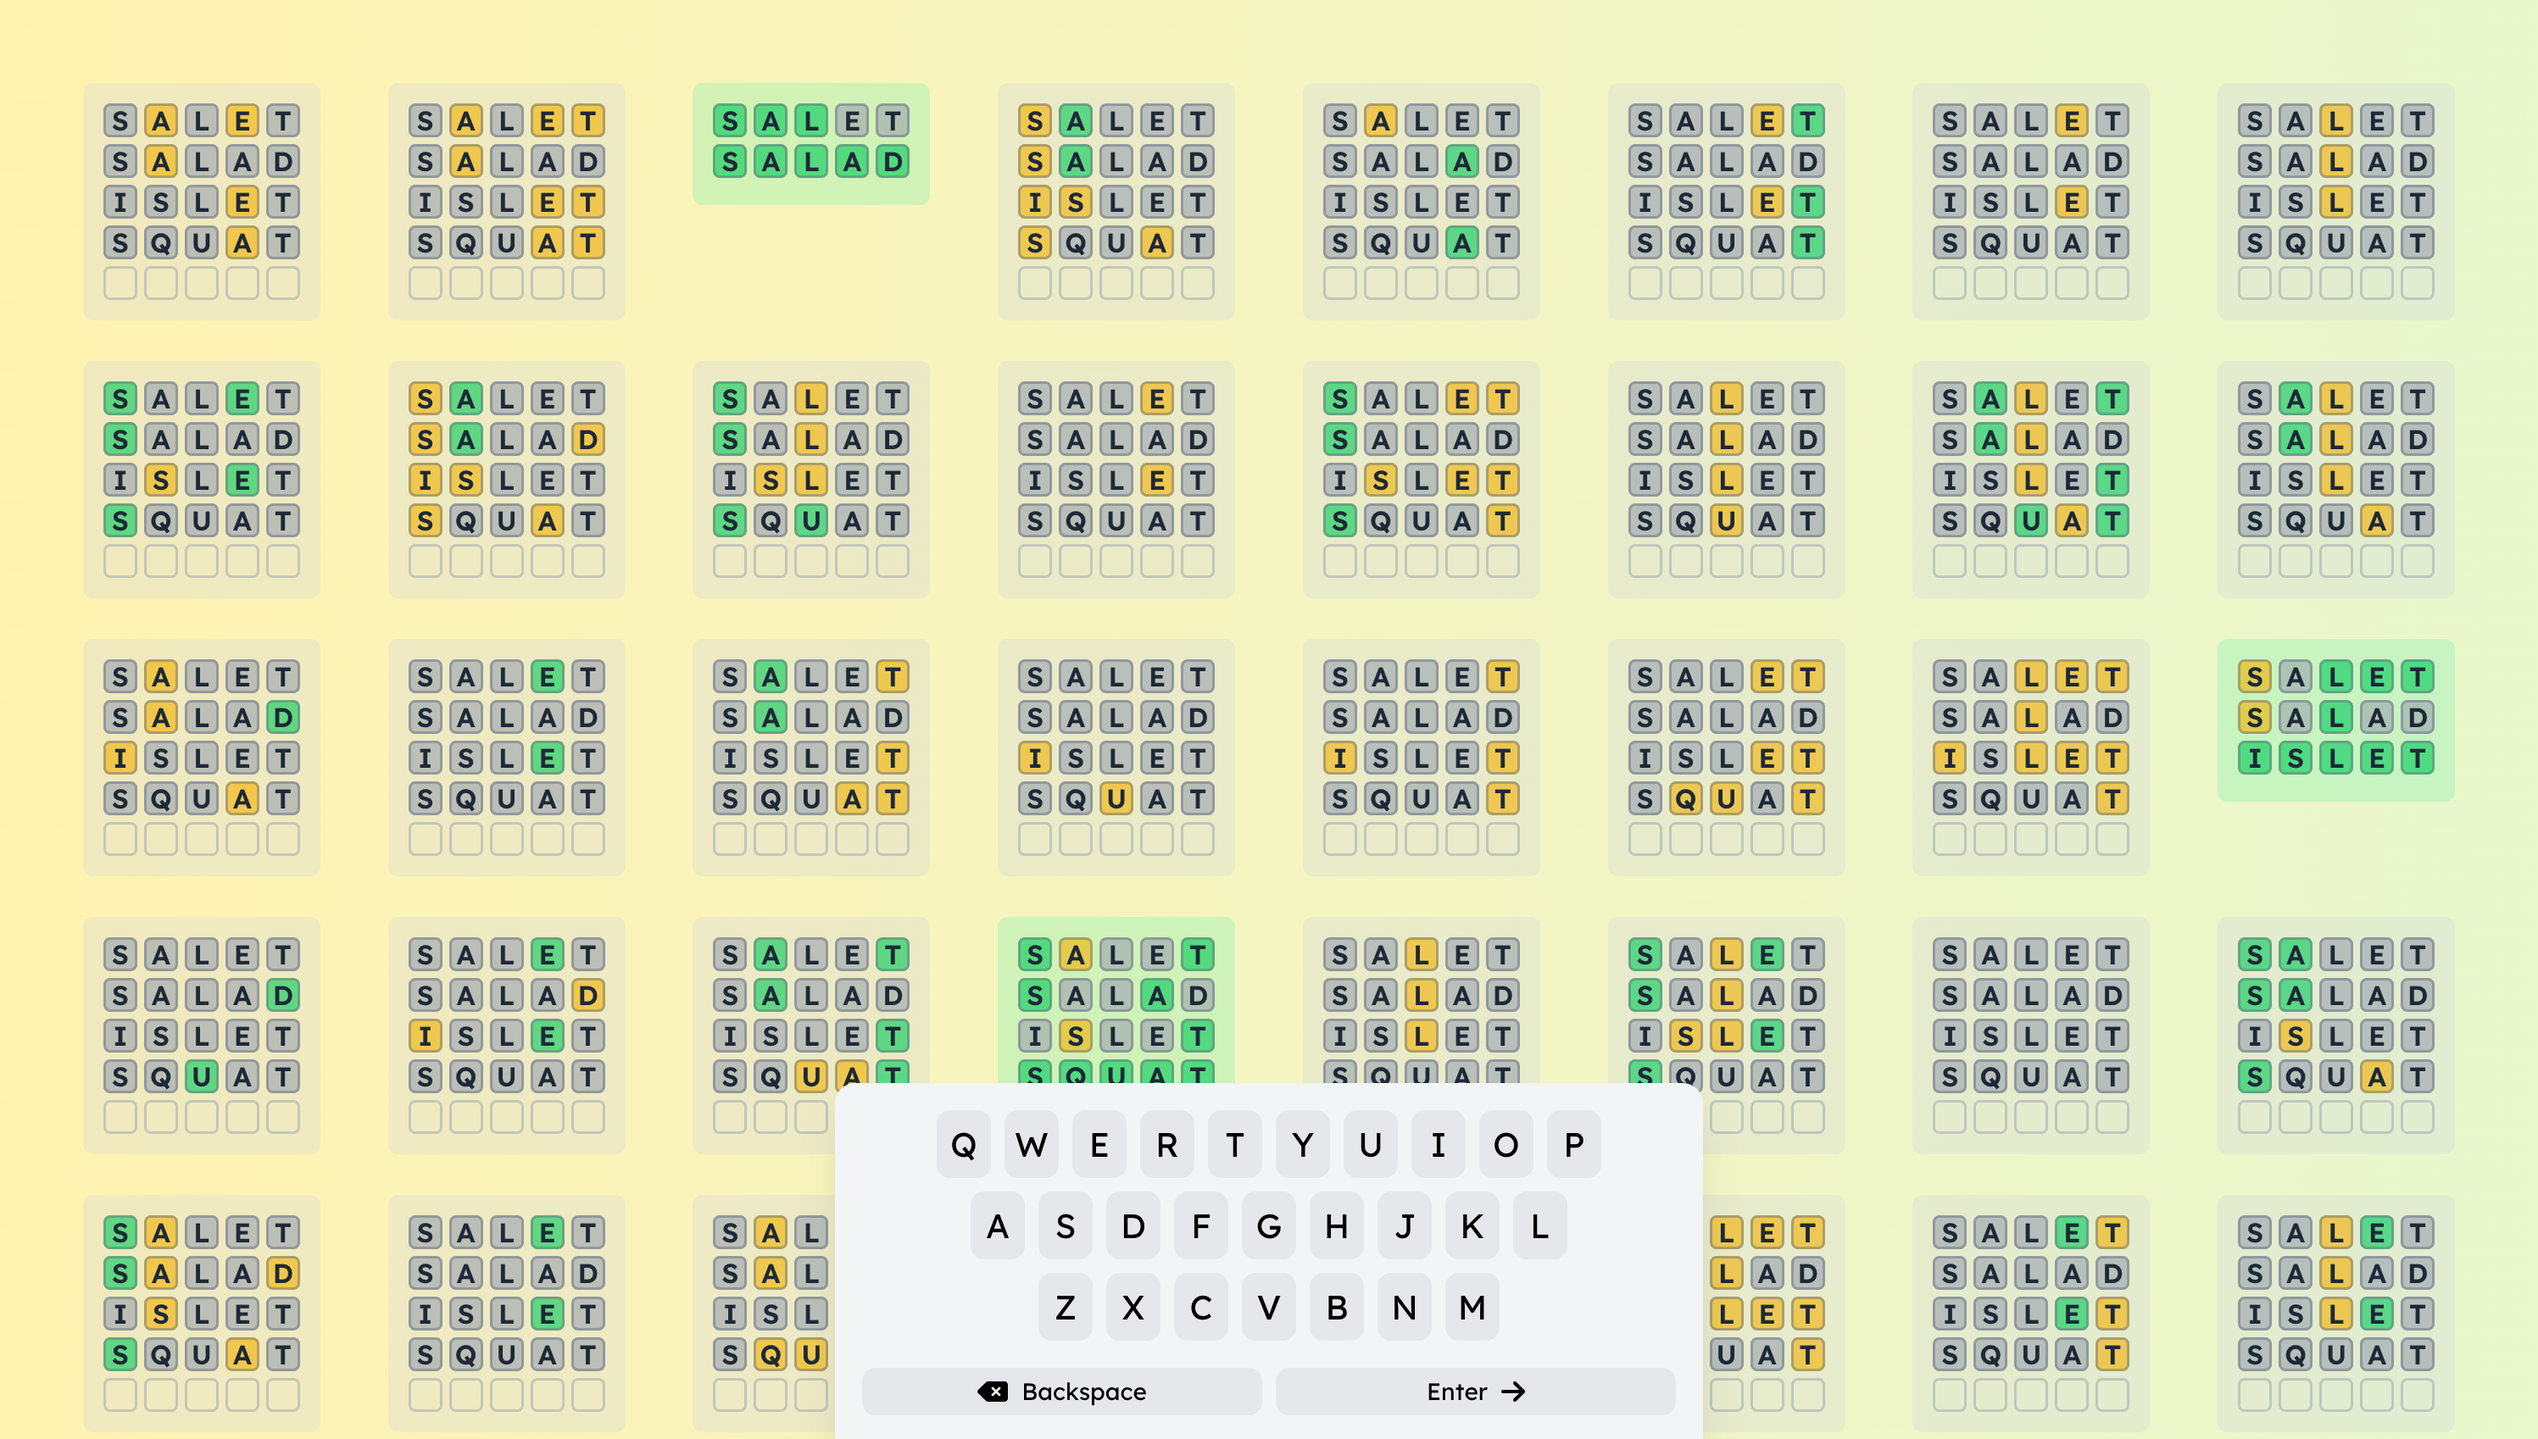
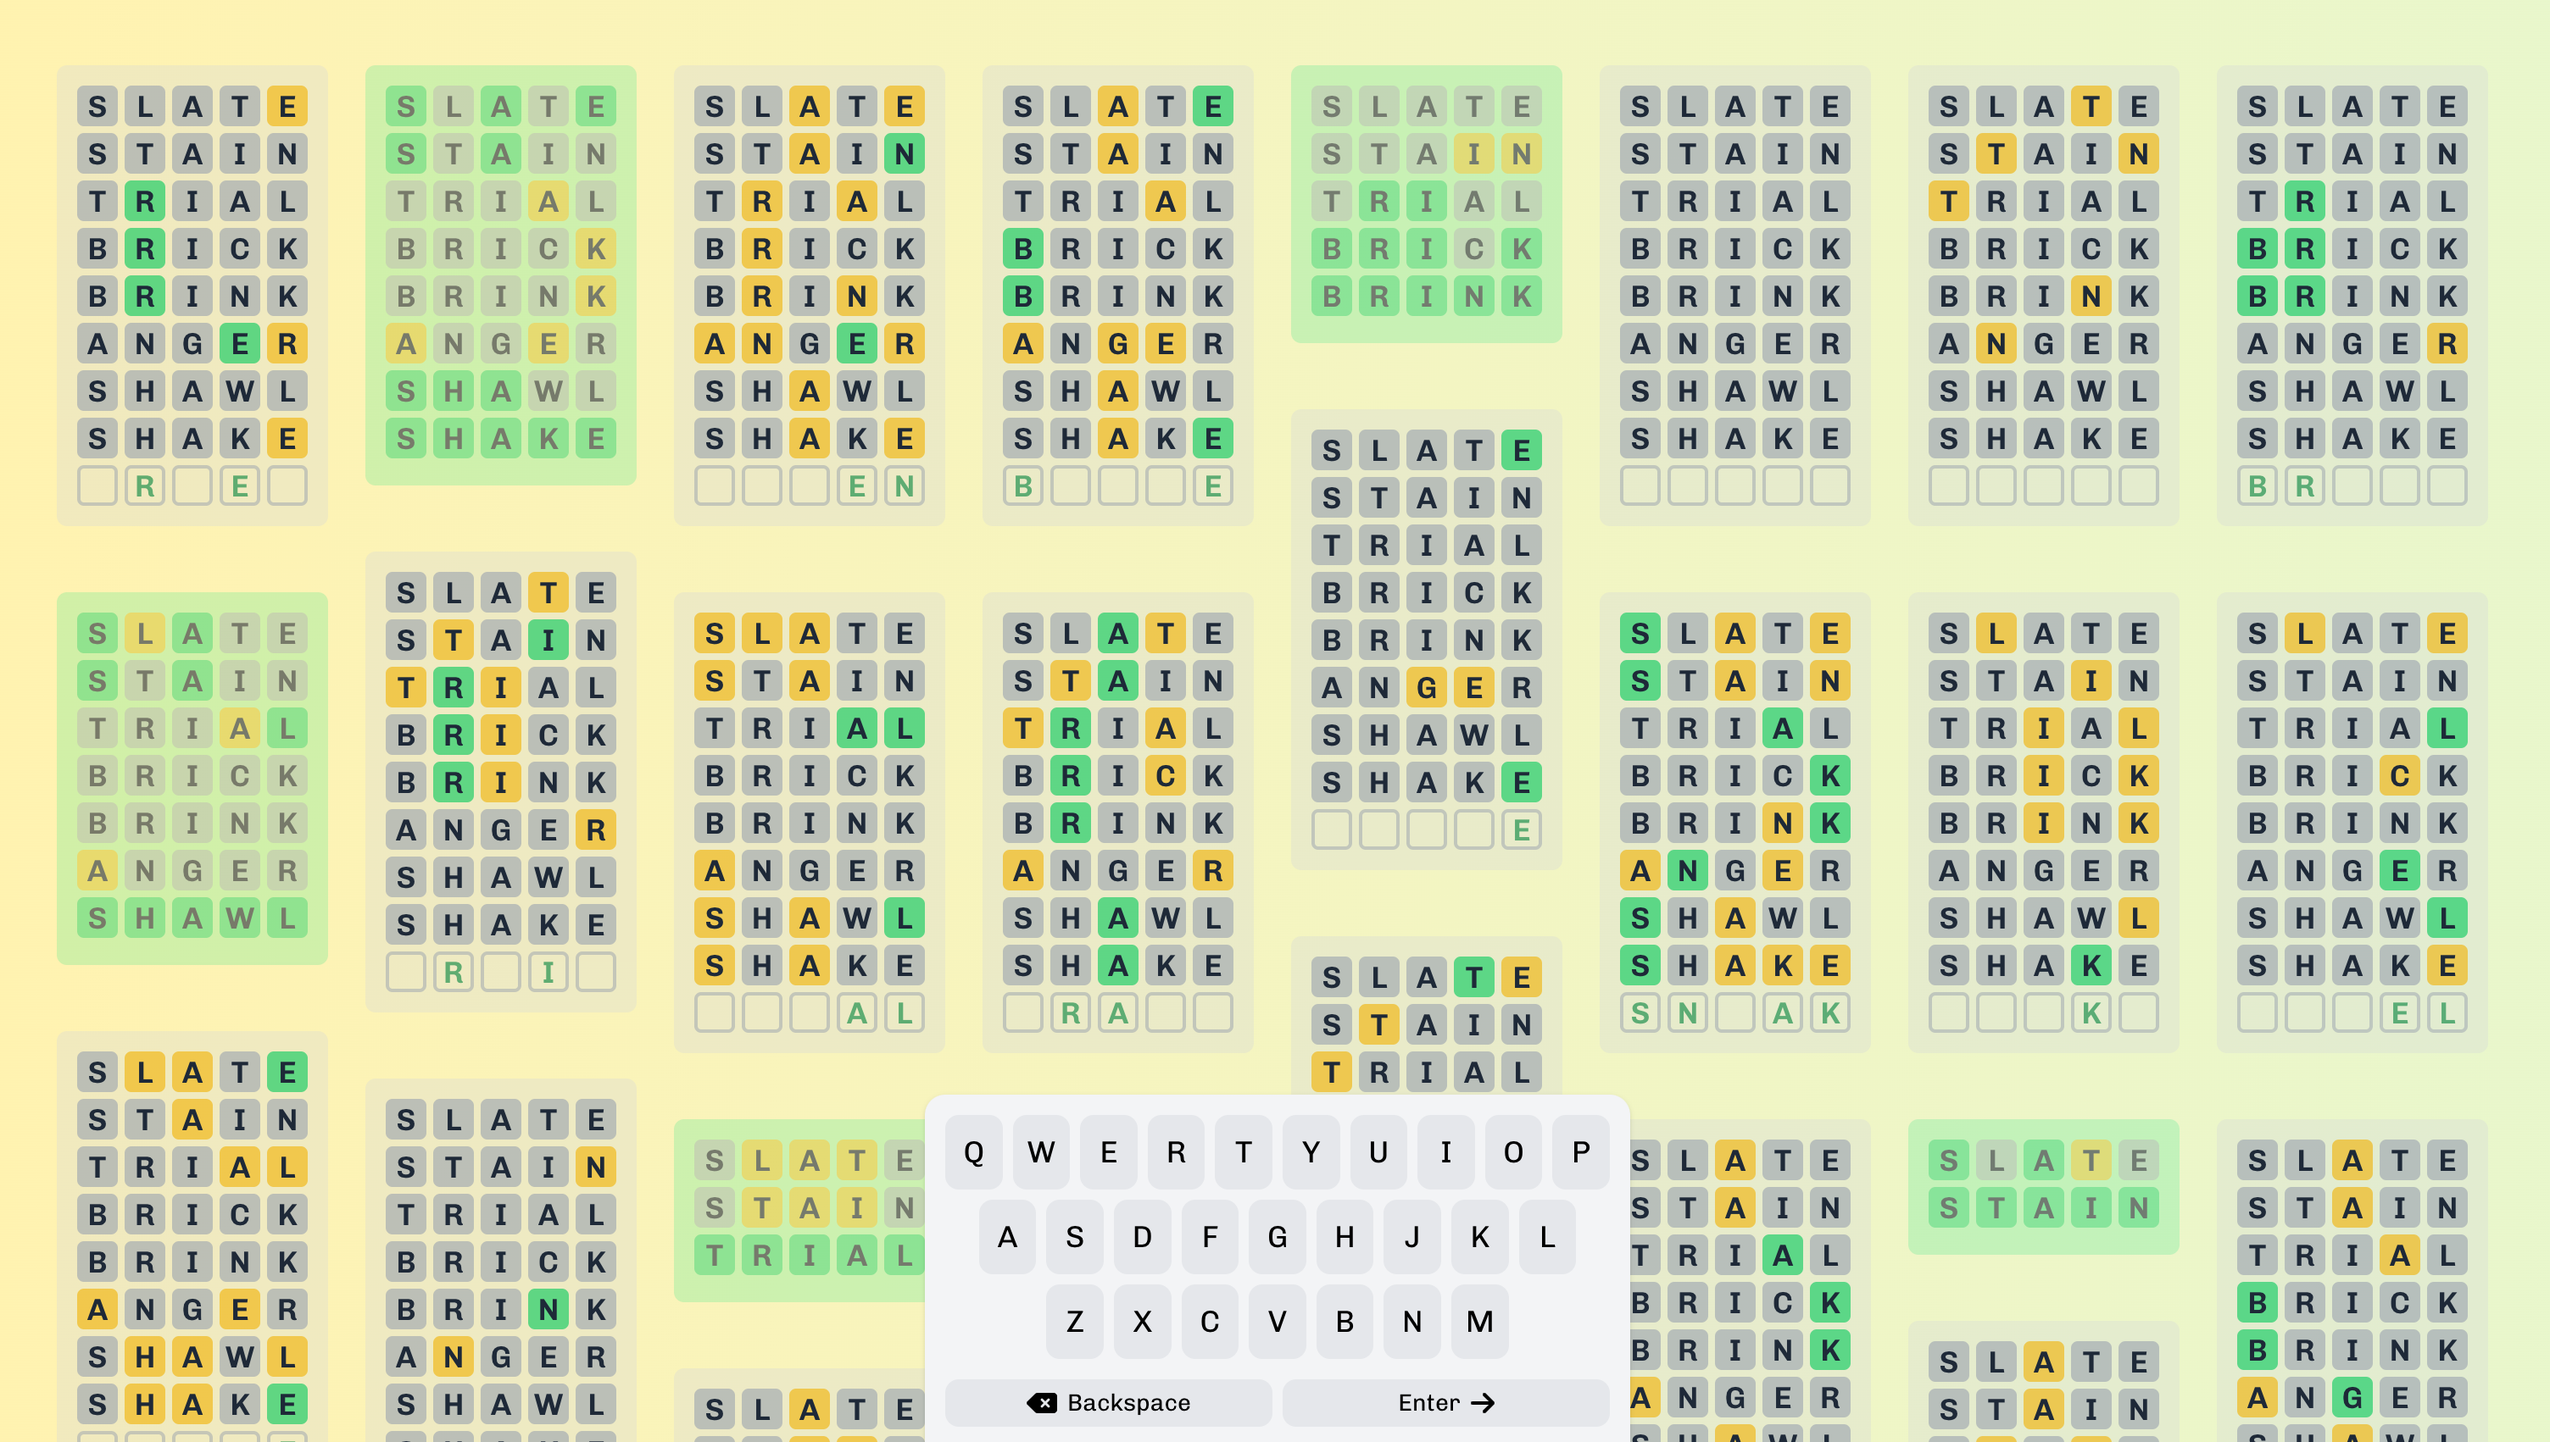
update everydle page

diff --git a/src/pages/projects/everydle.tsx b/src/pages/projects/everydle.tsx
@@ -1,7 +1,7 @@
 import CommonHead from "@/components/CommonHead";
 import Button from "@/components/Button";
 import SecButton from "@/components/SecButton";
-import Image from "next/image";
+import ImageCarousel from "@/components/ImageCarousel";
 import ProjectCover from "@/components/ProjectCover";
 
 export default function Everydle() {
@@ -26,17 +26,19 @@ export default function Everydle() {
         title="Everydle"
         desc="Play every game of Wordle at the same time."
         createDate="May 2025"
-        updateDate="May 2025"
+        updateDate="June 2025"
         logoImg="https://everydle.jakeo.dev/favicon.ico"
         toolsList={["Next.js", "TypeScript", "Tailwind"]}
       />
 
-      <div className="post-img-div mt-6">
-        <Image
-          src={require("../../../public/images/everydle-ss-1.png")}
-          alt={`Screenshot of Everydle showing the game being played`}
-          className="post-img"
-          placeholder="blur"
+      <div className="container post-img-div mx-auto mt-6">
+        <ImageCarousel
+          images={["/images/everydle-ss-1.png", "/images/everydle-ss-2.png"]}
+          imagePosition="object-top"
+          alts={[
+            "Screenshot of Everydle showing the game being played in classic mode",
+            "Screenshot of Everydle showing the game being played in compact mode",
+          ]}
         />
       </div>
 
@@ -63,6 +65,82 @@ export default function Everydle() {
         at once in one extremely long sitting, and never worry about missing a
         day again.
       </p>
+      <p className="text">
+        This is my first project that has actually received some attention on
+        the internet, and I've both appreciated the feedback on how to improve
+        the website and enjoyed reading the comments from random people. Here
+        are my favorites (some of which I also included in the list of random
+        taglines that appear under the title of the website):
+      </p>
+      <ul className="text list-disc list-inside">
+        <li className="text">
+          <a
+            href="https://www.metafilter.com/208826/Just-because-you-can-doesnt-mean-you-should#:~:text=This%20is%20very%20funny%2C%20basically,with%20an%20increasingly%20unuseable%20UI%22."
+            target="_blank"
+            className="link"
+            rel="noopener noreferrer"
+          >
+            "This is very funny, basically 're-type the wordle word list with an
+            increasingly unuseable UI'."
+          </a>
+        </li>
+        <li className="text">
+          <a
+            href="https://www.metafilter.com/208826/Just-because-you-can-doesnt-mean-you-should#:~:text=Oh%20it%20gets%20worse%20200%20words%20in"
+            target="_blank"
+            className="link"
+            rel="noopener noreferrer"
+          >
+            "Oh it gets worse 200 words in"
+          </a>
+        </li>
+        <li className="text">
+          <a
+            href="https://webcurios.co.uk/webcurios-23-05-25/#:~:text=This%20is%20HORRIBLE%20and%20made,get%20my%20head%20around%20it"
+            target="_blank"
+            className="link"
+            rel="noopener noreferrer"
+          >
+            "This is HORRIBLE and made me feel slightly queasy as I tried to get
+            my head around it"
+          </a>
+        </li>
+        <li className="text">
+          <a
+            href="https://www.microsiervos.com/archivo/juegos-y-diversion/everydle-resolver-todos-wordle.html#:~:text=es%20m%C3%A1s%20que%20un%20juego%2C,guerra%20a%20tu%20tiempo%20libre"
+            target="_blank"
+            className="link"
+            rel="noopener noreferrer"
+          >
+            "es más que un juego, es una declaración de guerra a tu tiempo
+            libre"{" "}
+            <i>
+              (it is more than a game, it is a declaration of war on your free
+              time)
+            </i>
+          </a>
+        </li>
+        <li className="text">
+          <a
+            href="https://b3ta.com/newsletter/issue949/#:~:text=W****e%20of%20%0A%20%20the,of%20the%20last%20187%20weeks"
+            target="_blank"
+            className="link"
+            rel="noopener noreferrer"
+          >
+            "[Wordle] of the week is [wordle] of the last 187 weeks"
+          </a>
+        </li>
+        <li className="text">
+          <a
+            href="https://www.metafilter.com/208826/Just-because-you-can-doesnt-mean-you-should#:~:text=This%20is%20wonderfully%20stupid"
+            target="_blank"
+            className="link"
+            rel="noopener noreferrer"
+          >
+            "This is wonderfully stupid"
+          </a>
+        </li>
+      </ul>
     </>
   );
 }
